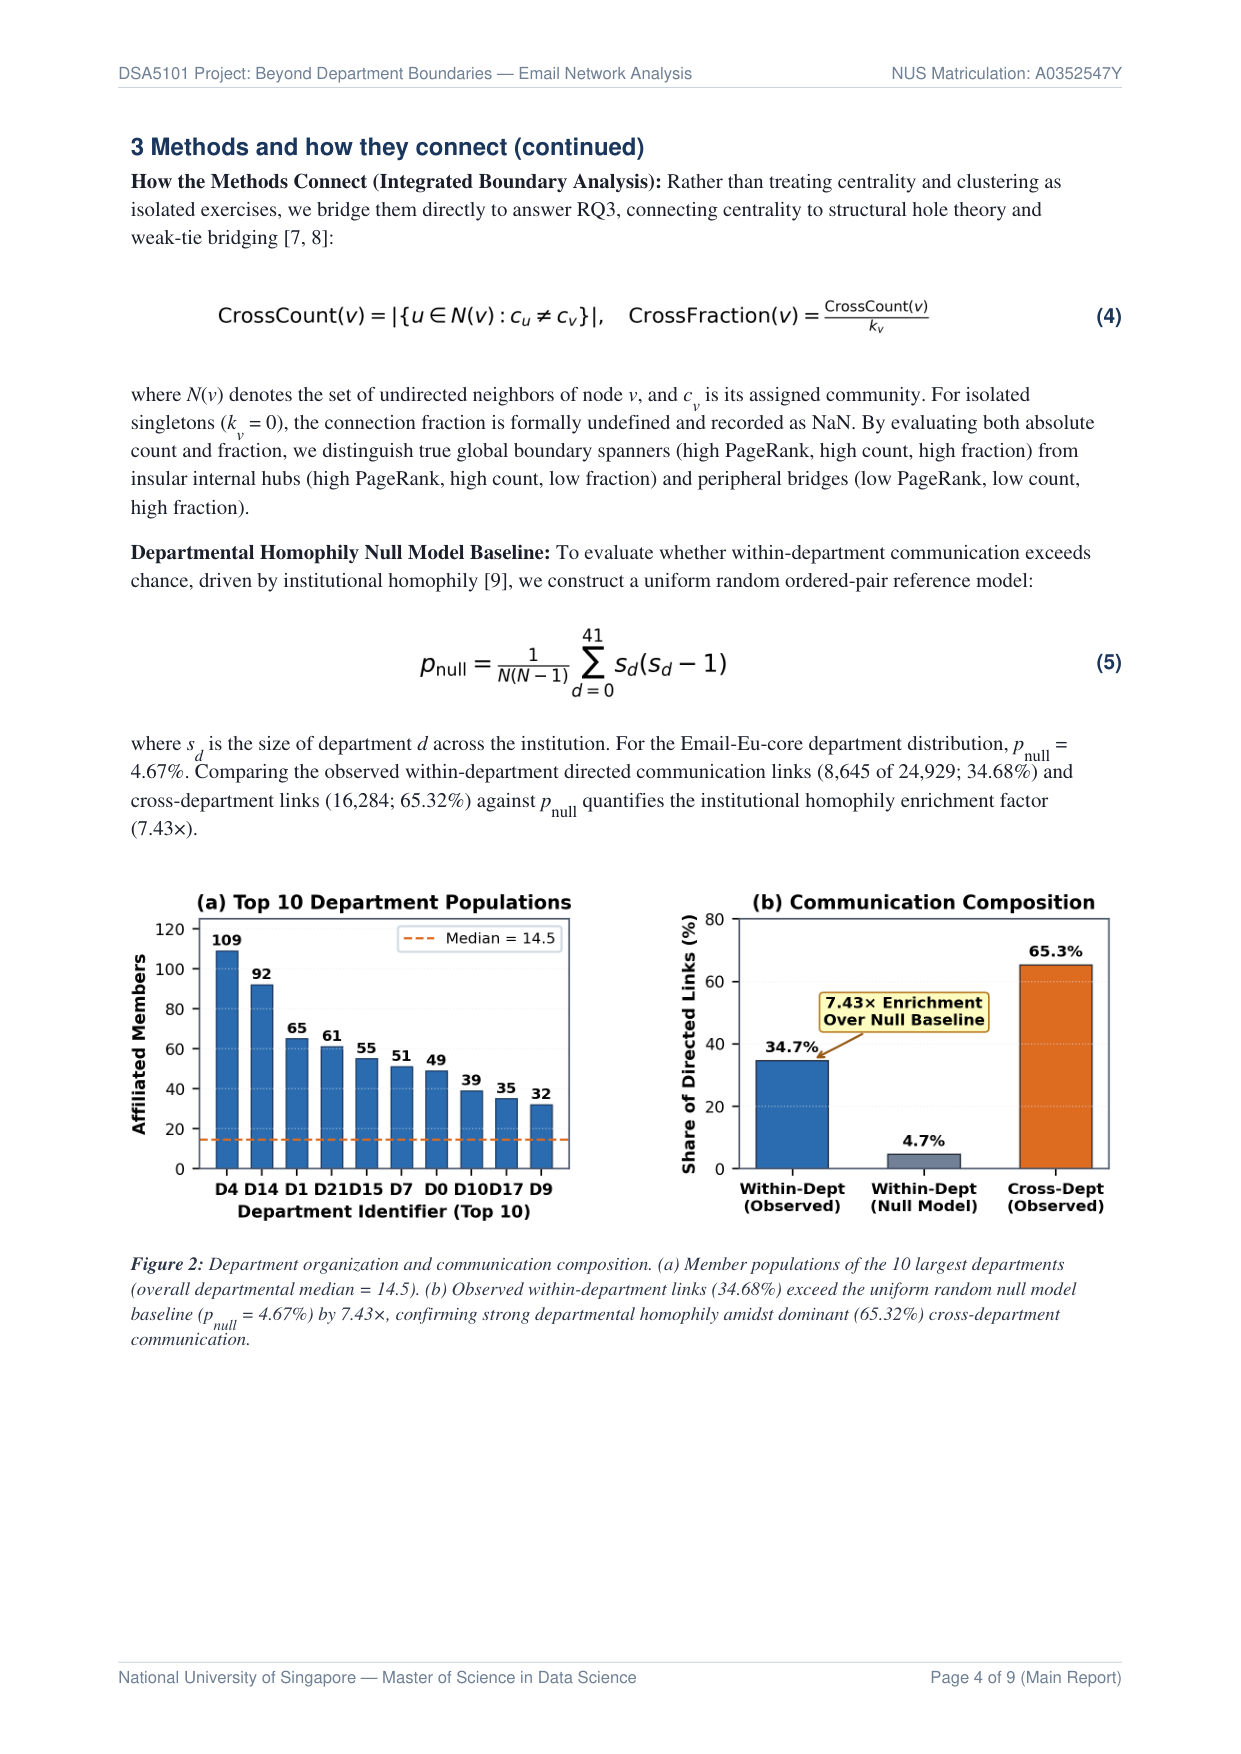
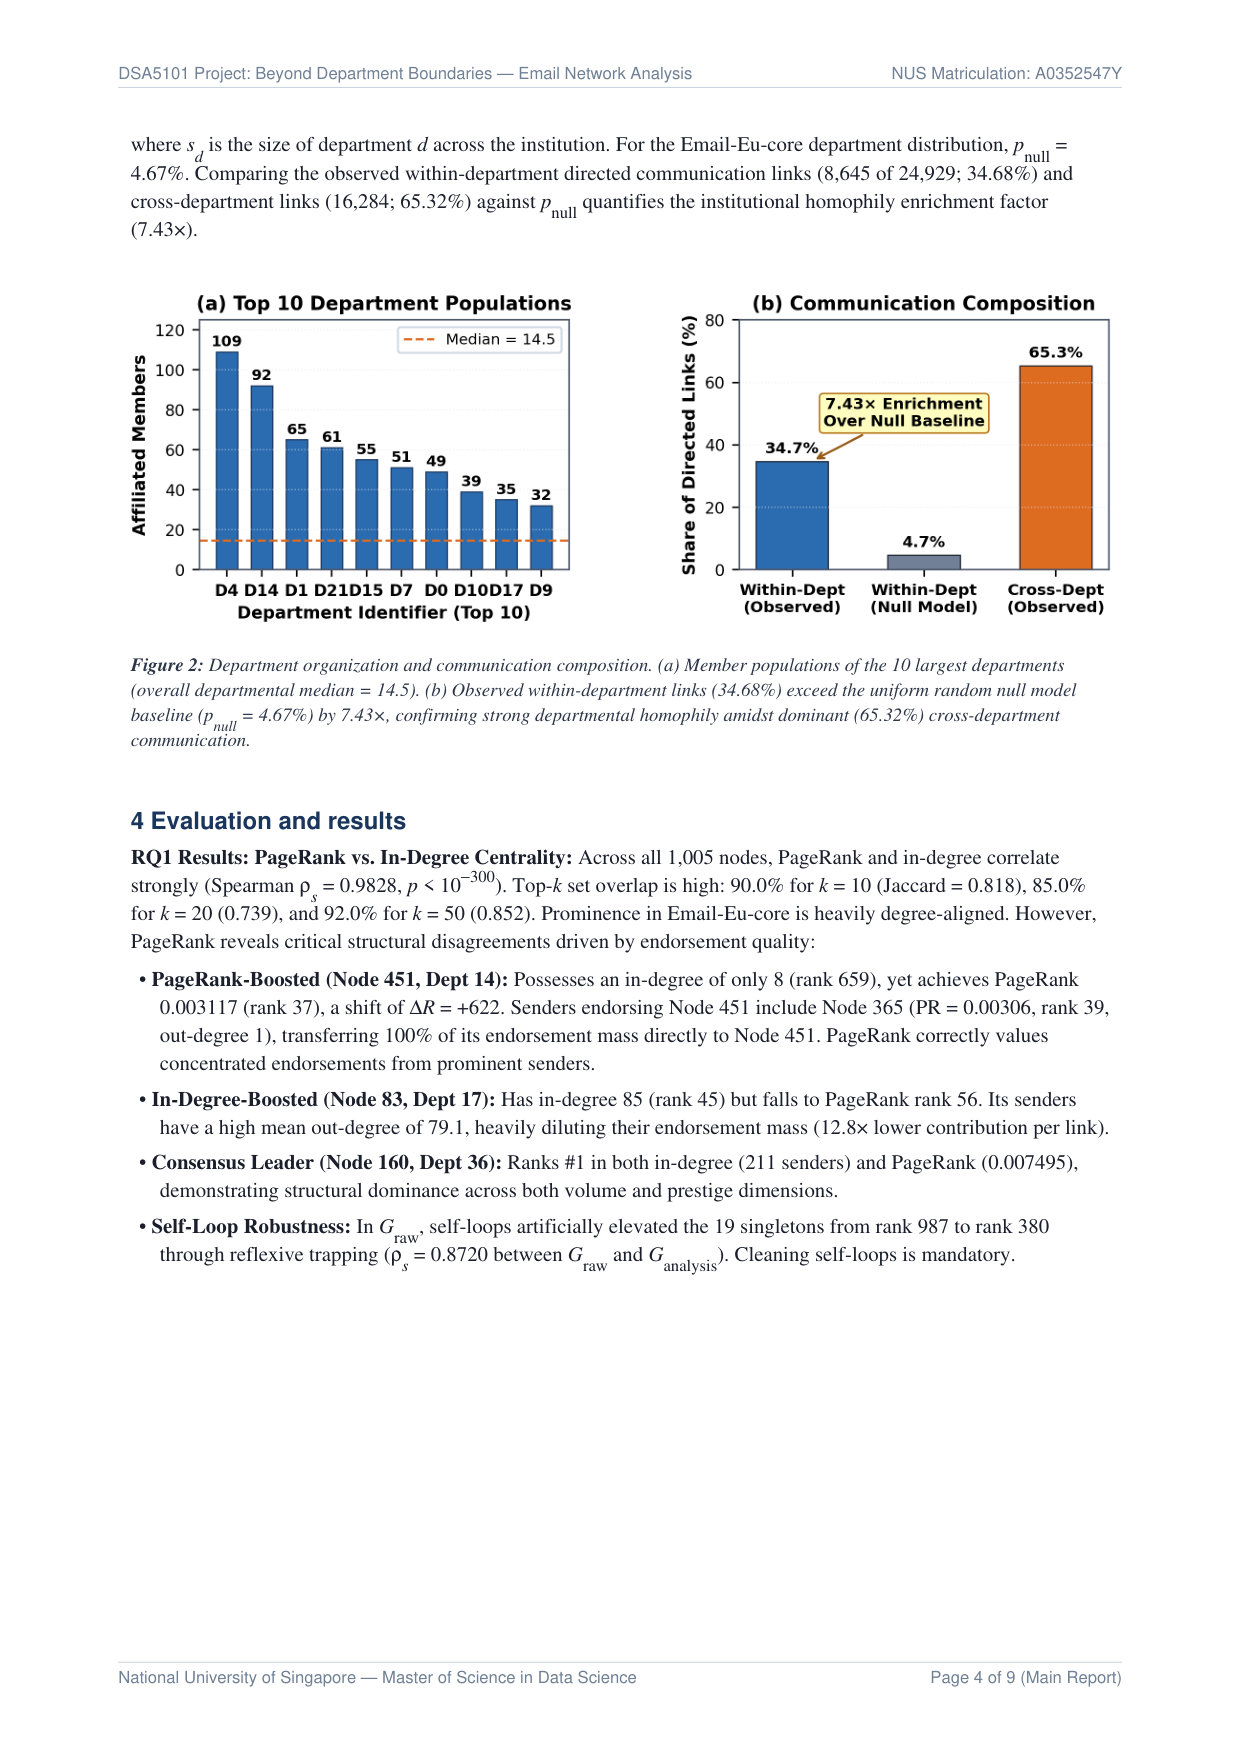
fix: implement continuous text flow and eliminate unnecessary forced page breaks

Changed region(s): [[0.0919, 0.0616, 0.888, 0.7697]]

diff --git a/scripts/build_report_pdf.py b/scripts/build_report_pdf.py
@@ -82,7 +82,7 @@ class NumberedCanvas(canvas.Canvas):
 
         # Running Footer (all pages)
         page_str = f"Page {self._pageNumber} of {page_count}"
-        if self._pageNumber >= NumberedCanvas.references_start_page:
+        if self._pageNumber == page_count:
             page_label = f"{page_str} (References — Excluded from 8-Page Limit)"
         else:
             page_label = f"{page_str} (Main Report)"
@@ -233,8 +233,8 @@ def generate_report(output_filename: str = "report.pdf") -> Path:
         fontSize=11.5,
         leading=14.5,
         textColor=colors.HexColor("#1A365D"),
-        spaceBefore=7,
-        spaceAfter=3,
+        spaceBefore=10,
+        spaceAfter=4,
         keepWithNext=True,
     )
 
@@ -342,24 +342,25 @@ def generate_report(output_filename: str = "report.pdf") -> Path:
         "By answering these questions using rigorous graph algorithms, statistical null models, and degree-adjusted controls, this study illuminates the topological interplay between formal hierarchies, informal networks, and individual prominence in complex knowledge institutions.",
         body_style
     ))
-
-    # PageBreak to Page 2
-    story.append(PageBreak())
+    story.append(Spacer(1, 8))
 
     # =========================================================================
-    # PAGE 2: SECTION 2 (DATA PREPARATION, TABLE 1, FIGURE 1)
+    # SECTION 2: DATA PREPARATION (TABLE 1, FIGURE 1)
     # =========================================================================
     story.append(Paragraph("2 Data preparation", h1_style))
     story.append(Paragraph(
         "<b>Data Integrity and Universe of Nodes:</b> Raw edge and department label files were acquired from the official SNAP repository, and cryptographic SHA-256 checksums were recorded upon acquisition to guarantee local data integrity and pipeline reproducibility. Parsing revealed exactly 25,571 edge records and 1,005 department mapping rows, with zero malformed entries and zero duplicate directed edges. Department identifiers span 0 &le; dept &le; 41, and node identifiers span 0 &le; node &le; 1004.",
         body_style
     ))
-    story.append(Paragraph(
-        "<b>Self-Loop Removal and Dual Graph Representation:</b> An edge audit revealed 642 self-loops (<i>u</i>, <i>u</i>), where the sender and receiver identifiers are identical in server logs. Retaining reflexive self-loops distorts interpersonal network analytics: in PageRank, self-loops trap teleported random walk probability; in community detection, self-loops artificially inflate internal edge density without representing interpersonal communication [1, 2]. To ensure methodological transparency, we analyze dual representations:",
-        body_style
-    ))
-    story.append(Paragraph("• <b><i>G</i><sub>raw</sub>:</b> The raw directed graph containing all 1,005 nodes, 25,571 directed edges, and 642 self-loops, matching published SNAP statistics exactly.", bullet_style))
-    story.append(Paragraph("• <b><i>G</i><sub>analysis</sub>:</b> The cleaned interpersonal directed graph containing all 1,005 nodes and exactly 24,929 interpersonal directed edges (25,571 &minus; 642). Crucially, the 19 singleton individuals whose only raw edges were self-loops are strictly preserved as degree-0 nodes with their ground-truth department labels to prevent selection bias.", bullet_style))
+    self_loop_block = KeepTogether([
+        Paragraph(
+            "<b>Self-Loop Removal and Dual Graph Representation:</b> An edge audit revealed 642 self-loops (<i>u</i>, <i>u</i>), where the sender and receiver identifiers are identical in server logs. Retaining reflexive self-loops distorts interpersonal network analytics: in PageRank, self-loops trap teleported random walk probability; in community detection, self-loops artificially inflate internal edge density without representing interpersonal communication [1, 2]. To ensure methodological transparency, we analyze dual representations:",
+            body_style
+        ),
+        Paragraph("• <b><i>G</i><sub>raw</sub>:</b> The raw directed graph containing all 1,005 nodes, 25,571 directed edges, and 642 self-loops, matching published SNAP statistics exactly.", bullet_style),
+        Paragraph("• <b><i>G</i><sub>analysis</sub>:</b> The cleaned interpersonal directed graph containing all 1,005 nodes and exactly 24,929 interpersonal directed edges (25,571 &minus; 642). Crucially, the 19 singleton individuals whose only raw edges were self-loops are strictly preserved as degree-0 nodes with their ground-truth department labels to prevent selection bias.", bullet_style),
+    ])
+    story.append(self_loop_block)
     story.append(Spacer(1, 4))
     story.append(Paragraph(
         "<b>Undirected Projection (<i>G</i><sub>undirected</sub>):</b> Louvain modularity optimization assumes symmetric adjacency. We construct an unweighted undirected projection <i>G</i><sub>undirected</sub> from <i>G</i><sub>analysis</sub>, collapsing reciprocal directed links (<i>u</i>, <i>v</i>) and (<i>v</i>, <i>u</i>) into a single undirected edge {<i>u</i>, <i>v</i>}. This projection preserves all 1,005 nodes (including the 19 isolates) and contains exactly 16,064 undirected edges. Reciprocal links account for 8,865 pairs (17,730 directed edges, 71.12%, matching the 0.7112 directed reciprocity of <i>G</i><sub>analysis</sub>), while 7,199 links are unreciprocated (28.88%). Directional initiation asymmetry is collapsed into binary reachability.",
@@ -401,11 +402,10 @@ def generate_report(output_filename: str = "report.pdf") -> Path:
         ])
         story.append(fig1_block)
 
-    # PageBreak to Page 3
-    story.append(PageBreak())
+    story.append(Spacer(1, 10))
 
     # =========================================================================
-    # PAGE 3: SECTION 3 PART A (PAGERANK, LOUVAIN, CONDUCTANCE)
+    # SECTION 3: METHODS AND HOW THEY CONNECT
     # =========================================================================
     story.append(Paragraph("3 Methods and how they connect", h1_style))
     story.append(Paragraph(
@@ -451,14 +451,8 @@ def generate_report(output_filename: str = "report.pdf") -> Path:
         "where &part;(<i>S</i>) = {{<i>u</i>, <i>v</i>} &isin; <i>E</i> | <i>u</i> &isin; <i>S</i>, <i>v</i> &notin; <i>S</i>} is the boundary cut, and vol(<i>S</i>) = &sum;<sub><i>u</i> &isin; <i>S</i></sub> <i>k</i><sub><i>u</i></sub> = 2|<i>E</i>(<i>S</i>, <i>S</i>)| + |&part;(<i>S</i>)| is total degree volume. Conductance evaluates boundary cut size relative to total volume (not the fraction of links, since internal edges contribute twice to volume). Lower conductance indicates a sharper, more self-contained boundary.",
         body_style
     ))
+    story.append(Spacer(1, 6))
 
-    # PageBreak to Page 4
-    story.append(PageBreak())
-
-    # =========================================================================
-    # PAGE 4: SECTION 3 PART B (CONNECTING METHODS, NULL MODEL, FIGURE 2)
-    # =========================================================================
-    story.append(Paragraph("3 Methods and how they connect (continued)", h1_style))
     story.append(Paragraph(
         "<b>How the Methods Connect (Integrated Boundary Analysis):</b> Rather than treating centrality and clustering as isolated exercises, we bridge them directly to answer RQ3, connecting centrality to structural hole theory and weak-tie bridging [7, 8]:",
         body_style
@@ -498,11 +492,10 @@ def generate_report(output_filename: str = "report.pdf") -> Path:
         ])
         story.append(fig2_block)
 
-    # PageBreak to Page 5
-    story.append(PageBreak())
+    story.append(Spacer(1, 10))
 
     # =========================================================================
-    # PAGE 5: SECTION 4 PART A (RQ1 RESULTS & FIGURE 3)
+    # SECTION 4: EVALUATION AND RESULTS
     # =========================================================================
     story.append(Paragraph("4 Evaluation and results", h1_style))
     story.append(Paragraph(
@@ -529,14 +522,8 @@ def generate_report(output_filename: str = "report.pdf") -> Path:
         "<b>Structural Implications of Ranking Disagreements:</b> The empirical findings confirm that while in-degree serves as a strong heuristic for general connectivity, it does not account for endorsement concentration. Node 451 illustrates that an individual can attain elevated PageRank by receiving concentrated endorsements from high-prestige senders (specifically Node 365, which has out-degree 1 and directs all endorsement mass to Node 451), despite having low overall degree. Conversely, individuals who receive links primarily from high-out-degree senders (such as Node 83) experience dilution of incoming endorsement mass under the random-surfer model.",
         body_style
     ))
+    story.append(Spacer(1, 6))
 
-    # PageBreak to Page 6
-    story.append(PageBreak())
-
-    # =========================================================================
-    # PAGE 6: SECTION 4 PART B (RQ2 RESULTS, TABLE 2, FIGURE 4)
-    # =========================================================================
-    story.append(Paragraph("4 Evaluation and results (continued)", h1_style))
     story.append(Paragraph(
         "<b>RQ2 Results: Louvain Communities vs. Administrative Departments:</b> Louvain modularity optimization (<i>&gamma;</i> = 1.0, seed 42) discovers 28 communities: 9 non-trivial cohesive communities spanning 986 nodes, plus 19 isolated singletons (sizes: C0: 190, C1: 157, C2: 145, C3: 127, C4: 125, C5: 109, C6: 91, C7: 32, C8: 10). Louvain achieves modularity <i>Q</i><sub>Louvain</sub> = 0.4130 and median conductance 0.4201 (mean 0.4475, min 0.2780 in C6). By contrast, partitioning the same graph by official departments yields substantially lower modularity <i>Q</i><sub>dept</sub> = 0.2880 and severe boundary leakage (median departmental conductance 0.8644, mean 0.7871). External concordance is moderate: Normalized Mutual Information NMI = 0.5946, and Adjusted Rand Index ARI = 0.3505.",
         body_style
@@ -584,20 +571,17 @@ def generate_report(output_filename: str = "report.pdf") -> Path:
         "<b>Departmental Consolidation and Fragmentation:</b> Inspection of the contingency matrix reveals two distinct organizational phenomena: (1) <i>Consolidation:</i> Multiple formal departments merge into unified operational communities (e.g., Depts 0, 7, and 10 cohere predominantly within Community C1). (2) <i>Fragmentation:</i> Large administrative units split across functional communication clusters (e.g., Dept 4 members are partitioned across Communities C0 and C2). Informal exchange reflects operational collaboration rather than designated hierarchy.",
         body_style
     ))
+    story.append(Spacer(1, 6))
 
-    # PageBreak to Page 7
-    story.append(PageBreak())
-
-    # =========================================================================
-    # PAGE 7: SECTION 4 PART C (RQ3 RESULTS, FIGURE 5, TABLE 3)
-    # =========================================================================
-    story.append(Paragraph("4 Evaluation and results (continued)", h1_style))
-    story.append(Paragraph(
-        "<b>RQ3 Results: Central Individuals as Boundary Spanners:</b> Partitioning nodes into the Top 10% PageRank tier (<i>N</i> = 101) and Remaining 90% tier (<i>N</i> = 904) reveals marked differences in cross-community connectivity:",
-        body_style
-    ))
-    story.append(Paragraph("• <b>Cross-Community Connections Count:</b> Top 10% individuals maintain a mean of <b>67.88</b> cross-community edges (median 59.0) vs. <b>7.94</b> (median 4.0) for remaining nodes—an <b>8.55&times; higher volume</b> (Mann-Whitney <i>U</i> = 88,970.0, <i>p</i> = 6.88 &times; 10<sup>&minus;56</sup>).", bullet_style))
-    story.append(Paragraph("• <b>Cross-Community Connection Fraction:</b> Top 10% dedicate a mean of <b>55.79%</b> of their links outside their primary community (median 58.10%) vs. <b>26.56%</b> (median 25.00%) for remaining non-isolated nodes (<i>N</i> = 885), more than double the proportion (Mann-Whitney <i>U</i> = 77,037.5, <i>p</i> = 4.59 &times; 10<sup>&minus;33</sup>).", bullet_style))
+    rq3_intro_block = KeepTogether([
+        Paragraph(
+            "<b>RQ3 Results: Central Individuals as Boundary Spanners:</b> Partitioning nodes into the Top 10% PageRank tier (<i>N</i> = 101) and Remaining 90% tier (<i>N</i> = 904) reveals marked differences in cross-community connectivity:",
+            body_style
+        ),
+        Paragraph("• <b>Cross-Community Connections Count:</b> Top 10% individuals maintain a mean of <b>67.88</b> cross-community edges (median 59.0) vs. <b>7.94</b> (median 4.0) for remaining nodes—an <b>8.55&times; higher volume</b> (Mann-Whitney <i>U</i> = 88,970.0, <i>p</i> = 6.88 &times; 10<sup>&minus;56</sup>).", bullet_style),
+        Paragraph("• <b>Cross-Community Connection Fraction:</b> Top 10% dedicate a mean of <b>55.79%</b> of their links outside their primary community (median 58.10%) vs. <b>26.56%</b> (median 25.00%) for remaining non-isolated nodes (<i>N</i> = 885), more than double the proportion (Mann-Whitney <i>U</i> = 77,037.5, <i>p</i> = 4.59 &times; 10<sup>&minus;33</sup>).", bullet_style),
+    ])
+    story.append(rq3_intro_block)
     story.append(Spacer(1, 4))
     story.append(Paragraph(
         "<b>Degree Confounding and Stratified Analysis:</b> Total undirected degree is a major confounder, correlating strongly with PageRank (<i>&rho;</i><sub><i>s</i></sub> = 0.9614) and cross-community count (<i>&rho;</i><sub><i>s</i></sub> = 0.9155). Controlling globally for degree yields a slightly negative partial rank correlation (Partial <i>&rho;</i><sub><i>s</i></sub> = &minus;0.1803, <i>p</i> = 1.15 &times; 10<sup>&minus;8</sup>) because receiving concentrated endorsements inside dense core clusters boosts PageRank without boundary spanning. However, degree stratification clarifies this dynamic: exactly <b>100 of the 101 Top 10% PageRank nodes (99.0%) reside in the highest degree quartile Q4</b> (<i>d</i> &ge; 45, <i>N</i> = 247). Within Q4, Top 10% PageRank nodes exhibit a higher mean cross-community count (<b>68.56 vs. 25.17</b>, <i>p</i> = 2.10 &times; 10<sup>&minus;27</sup>) and a higher cross-boundary fraction (<b>56.34% vs. 41.30%</b>, <i>p</i> = 5.69 &times; 10<sup>&minus;12</sup>). While PageRank correlates with boundary connectivity among active individuals, total degree remains a substantial confounder, and within-quartile comparisons do not entirely eliminate residual degree variance.",
@@ -640,11 +624,10 @@ def generate_report(output_filename: str = "report.pdf") -> Path:
     ])
     story.append(t3_block)
 
-    # PageBreak to Page 8
-    story.append(PageBreak())
+    story.append(Spacer(1, 10))
 
     # =========================================================================
-    # PAGE 8: SECTION 5 & SECTION 6
+    # SECTION 5: INSIGHTS AND LIMITATIONS
     # =========================================================================
     story.append(Paragraph("5 Insights and limitations", h1_style))
     story.append(Paragraph(
@@ -655,11 +638,13 @@ def generate_report(output_filename: str = "report.pdf") -> Path:
     story.append(Paragraph("1. <i>Network Autocorrelation & Descriptive Inference:</i> Dyadic reciprocity (71.12%) and transitivity violate i.i.d. assumptions; reported Mann-Whitney U test <i>p</i>-values are descriptive indicators of distributional separation rather than formal causal proofs.", bullet_style))
     story.append(Paragraph("2. <i>Binary vs. Weighted Edges:</i> Edge weights, frequencies, and message contents are unobserved; single administrative broadcasts are topologically indistinguishable from frequent collaboration.", bullet_style))
     story.append(Paragraph("3. <i>Degree Confounding & Non-Causal Embedding:</i> Total degree strongly confounds PageRank (<i>&rho;</i><sub><i>s</i></sub> = 0.9614) and boundary ties (<i>&rho;</i><sub><i>s</i></sub> = 0.9155); quartile stratification narrows but does not eliminate residual degree variance. Network positions reflect structural embedding, not formal authority, effectiveness, or deliberate brokerage intent.", bullet_style))
-    story.append(Spacer(1, 3))
-    story.append(Paragraph(
-        "<b>Summary Conclusion:</b> In summary, informal communication in this research institution systematically transcends administrative departmental lines. PageRank identifies individuals commanding structural prestige through concentrated endorsements, while Louvain modularity optimization reveals organic, multi-departmental clusters governing operational exchange. Highly ranked individuals frequently exhibit substantial cross-community connectivity, though this relationship is substantially mediated by total degree. Assessing boundary spanning requires joint evaluation of prestige centrality, community partitions, and degree distributions.",
-        body_style
-    ))
+    story.append(Spacer(1, 4))
+    story.append(KeepTogether([
+        Paragraph(
+            "<b>Summary Conclusion:</b> In summary, informal communication in this research institution systematically transcends administrative departmental lines. PageRank identifies individuals commanding structural prestige through concentrated endorsements, while Louvain modularity optimization reveals organic, multi-departmental clusters governing operational exchange. Highly ranked individuals frequently exhibit substantial cross-community connectivity, though this relationship is substantially mediated by total degree. Assessing boundary spanning requires joint evaluation of prestige centrality, community partitions, and degree distributions.",
+            body_style
+        )
+    ]))
     story.append(Spacer(1, 4))
 
     story.append(Paragraph("6 Reproducibility information", h1_style))
